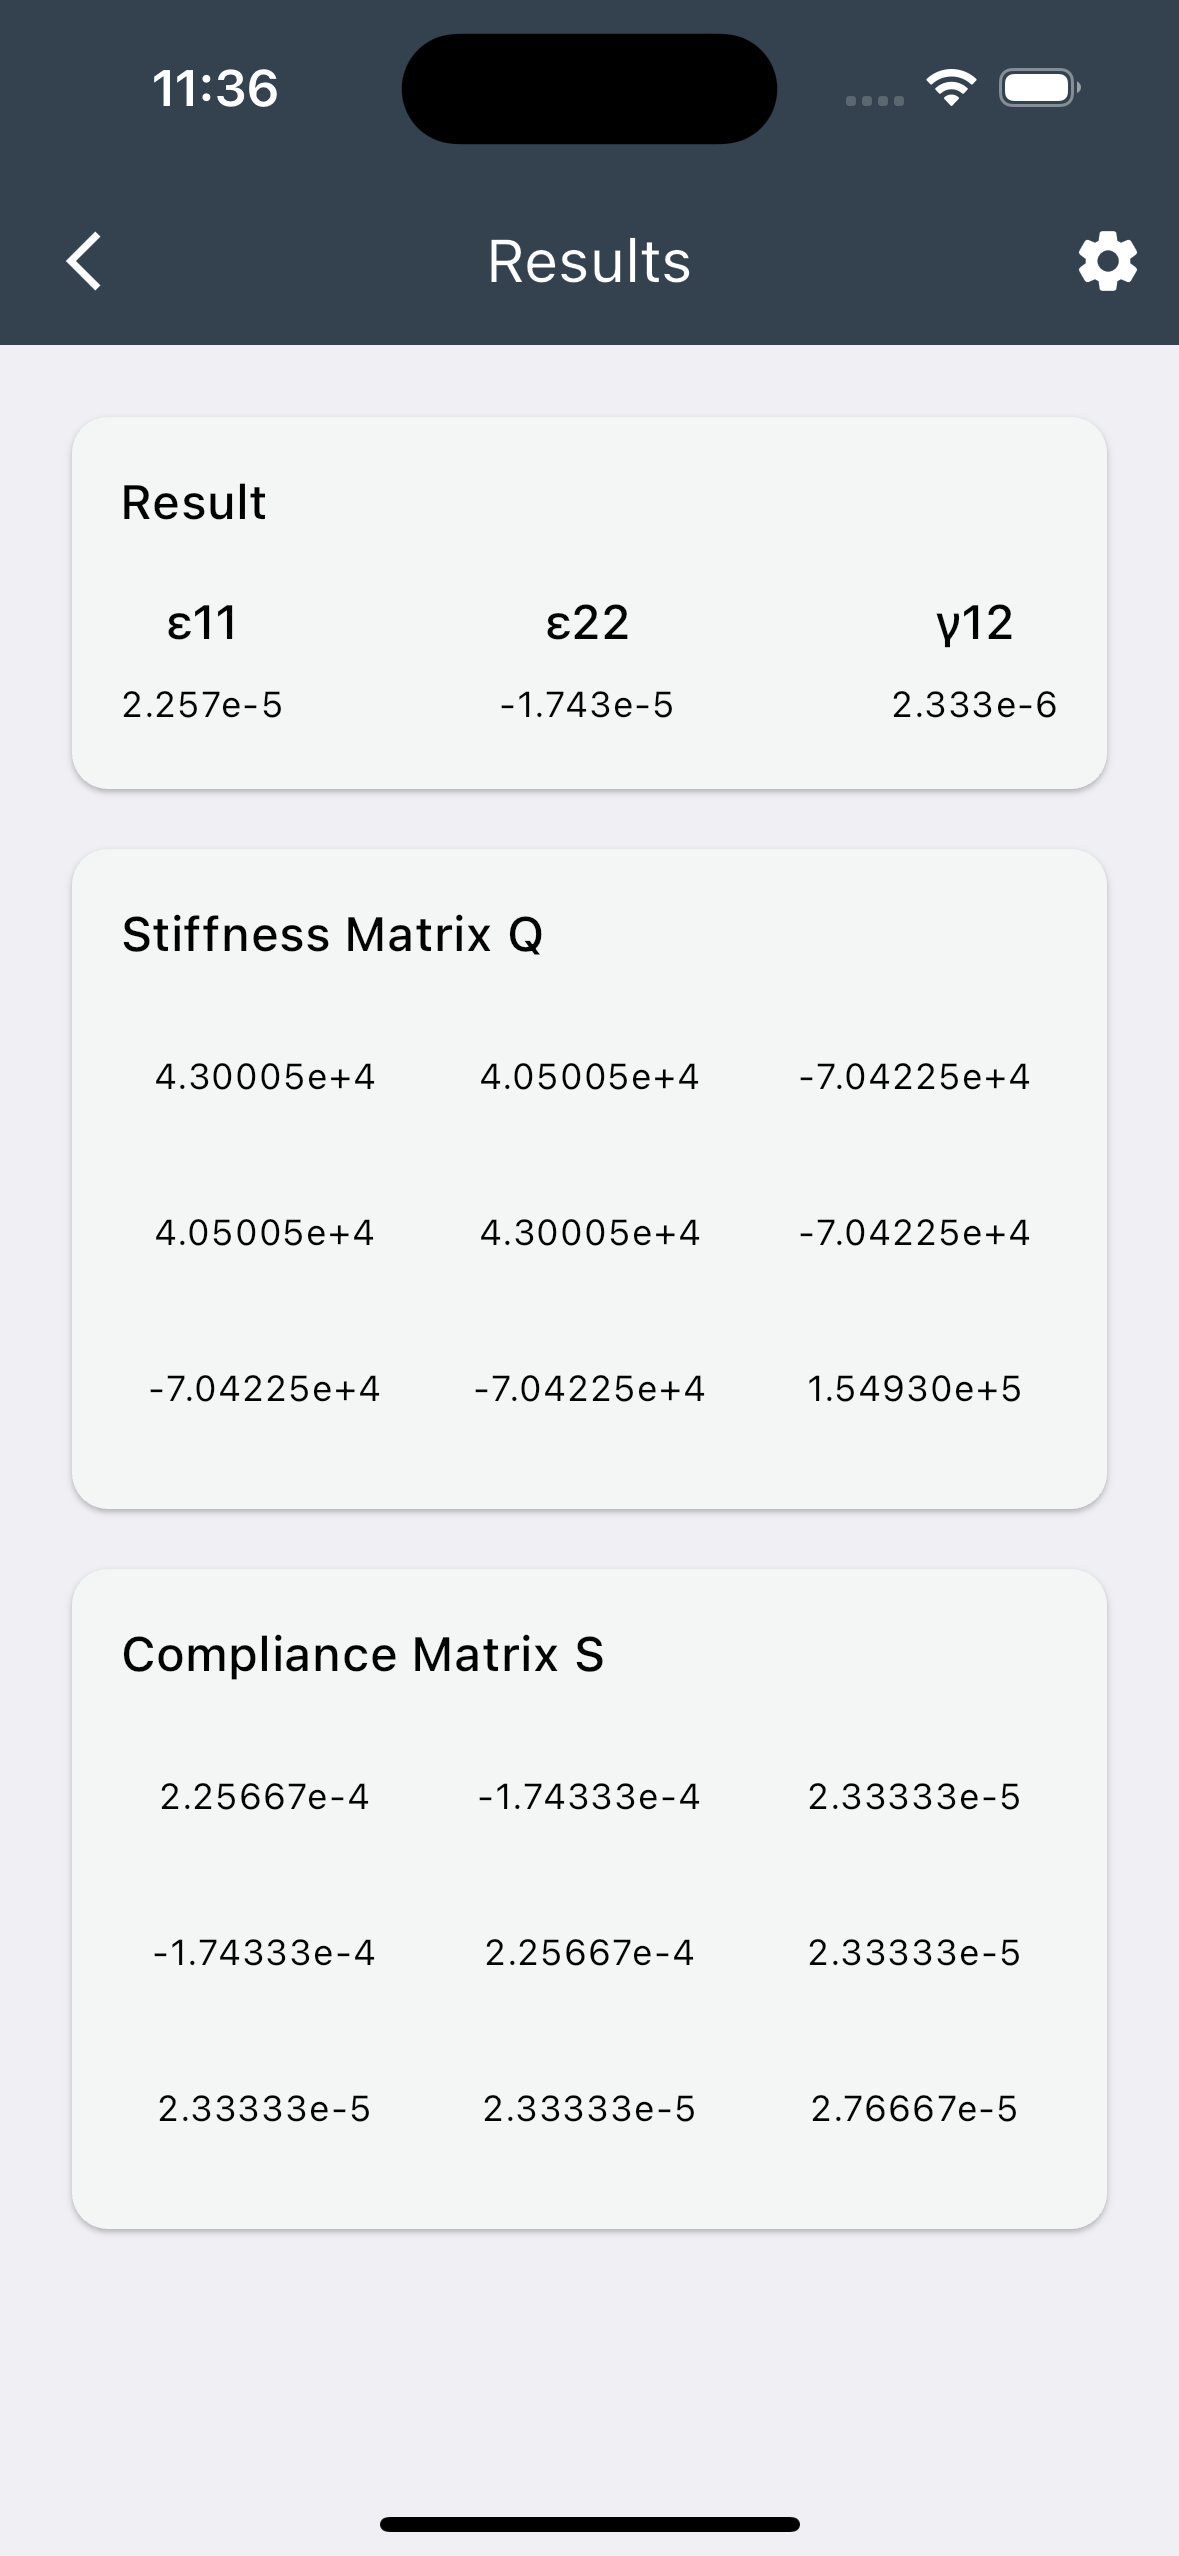
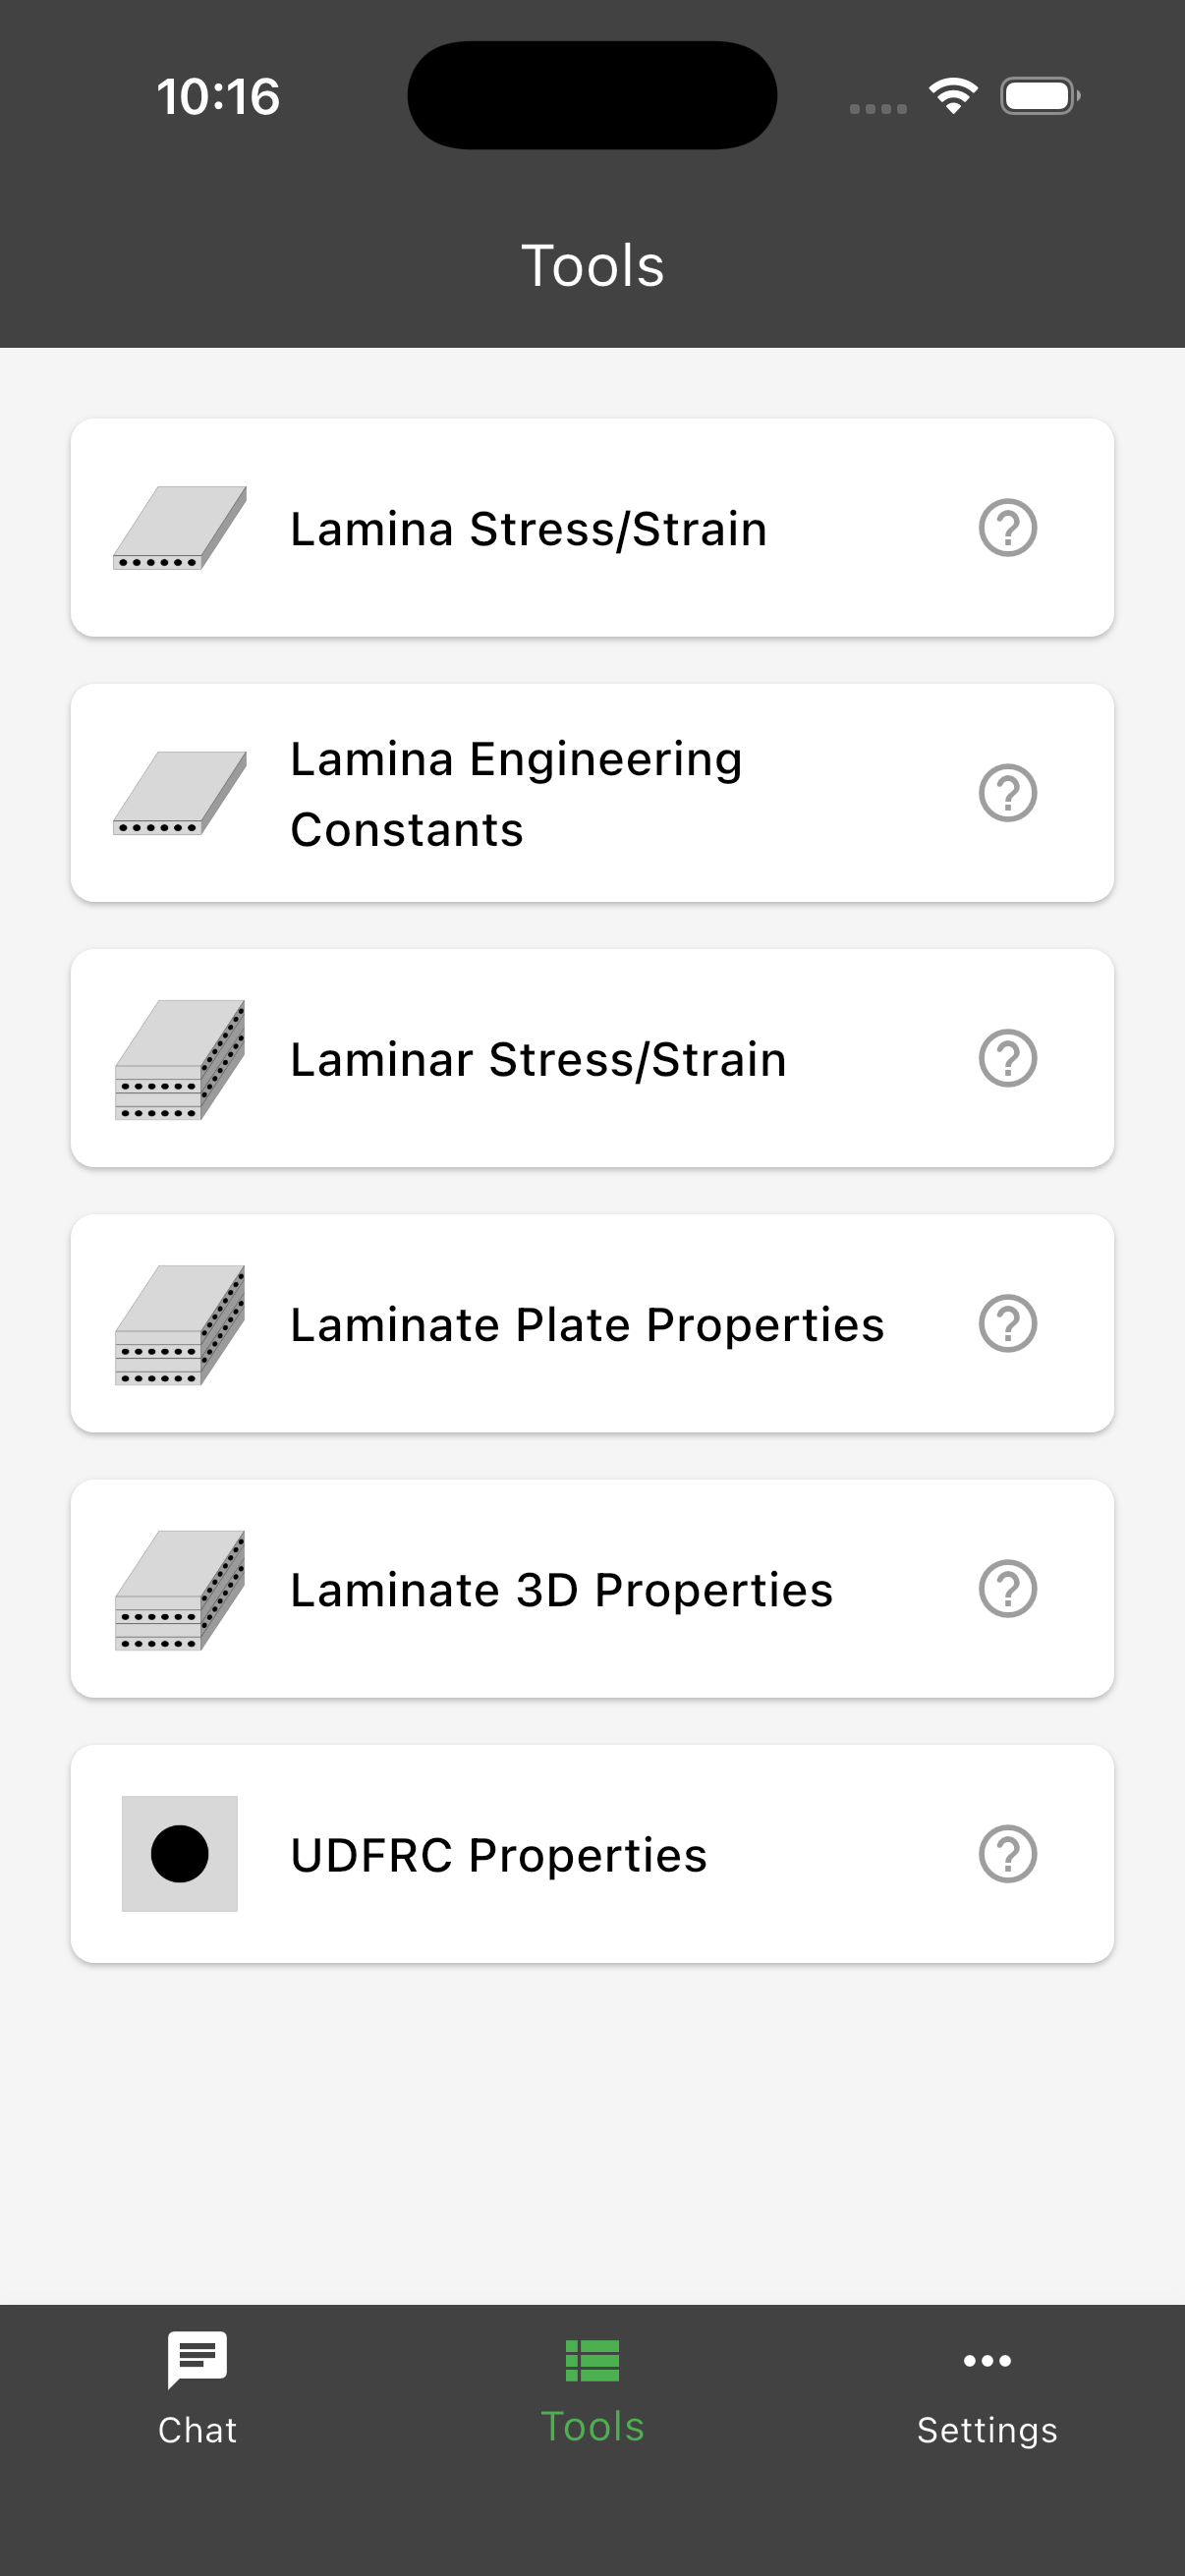
Update readme

diff --git a/README.md b/README.md
@@ -1,85 +1,128 @@
-# SwiftComp-flutter
+# CompositesAI (Former SwiftComp)
+
 [![Version](https://img.shields.io/github/v/release/banghuazhao/swiftcomp-flutter)](https://github.com/banghuazhao/swiftcomp-flutter/releases)
-[![License](https://img.shields.io/github/license/banghuazhao/EasyToast)](LICENSE)
-[![Platform](https://img.shields.io/badge/platform-iOS%20|%20android-blue)](#)
+[![License](https://img.shields.io/github/license/banghuazhao/swiftcomp-flutter)](LICENSE)
+[![Platform](https://img.shields.io/badge/platform-iOS%20%7C%20Android%20%7C%20Web-blue)](#)
 [![App Store](https://img.shields.io/badge/App%20Store-Download-blue.svg)](https://apps.apple.com/us/app/swiftcomp-composite-calculator/id1297825946)
 [![Google Play](https://img.shields.io/badge/Google%20Play-Download-green.svg)](https://play.google.com/store/apps/details?id=com.banghuazhao.swiftcomp&hl=en_US)
 
+CompositesAI is a cross-platform Flutter app for composite materials engineering. It combines SwiftComp-based composite calculators with an AI chat assistant for questions, calculations, and simulation-oriented workflows.
 
-SwiftComp-flutter is a mobile app designed to provide a comprehensive composite calculator based on the SwiftComp software, a general-purpose multiscale constitutive modeling code for composites. The app is available on both the App Store, Google Play Store, and [web](https://compositesai.com/), making it accessible to a wide range of users.
+The app is available for iOS, Android, and the web at [compositesai.com](https://compositesai.com/).
 
+## Features
 
-## ✨ Features
+- AI chat assistant for composites questions, calculations, and guided workflows.
+- Lamina stress/strain calculator for a single layer with arbitrary fiber orientation.
+- Lamina engineering constants calculator.
+- Laminate stress/strain calculator.
+- Laminate plate properties calculator, including ABD matrices.
+- Laminate 3D properties calculator.
+- UDFRC rules-of-mixtures calculator for unidirectional fiber-reinforced composites.
+- Account flows for sign in, sign up, password reset, profile settings, and provider sign-in.
+- Localized UI for English, Simplified Chinese, and Traditional Chinese.
 
-- **Lamina Stress/Strain:** Compute stress and strain for a single layer with arbitrary fiber orientation.
-- **Lamina Engineering Constants:** Compute engineering constants for a lamina with arbitrary fiber orientation.
-- **Laminar Stress/Strain:** Compute stress and strain distribution within a lamiante.
-- **Laminate Plate Properties:** Compute the ABD matrices for a laminate.
-- **Laminate 3D Properties:** Compute 3D properties for a laminate.
-- **UDFRC Properties:** Compute 3D properties for unidirectional fiber-reinforced composites (UDFRC).
-- **Chat:** A built-in AI Campanion for asking questions and performing calculations.
-
-
-## 🖼️ Screenshots
+## Screenshots
 
 <p align="center">
-<img src="./sreenshots/1.png" alt="iOS Screenshot" width="200">
-<img src="./sreenshots/2.png" alt="iOS Screenshot" width="200">
-<img src="./sreenshots/3.png" alt="iOS Screenshot" width="200">
+  <img src="./sreenshots/1.png" alt="SwiftComp screenshot 1" width="200">
+  <img src="./sreenshots/2.png" alt="SwiftComp screenshot 2" width="200">
+  <img src="./sreenshots/3.png" alt="SwiftComp screenshot 3" width="200">
 </p>
 
-## 📋 Requirements
+## Tech Stack
 
-- Dart: >=3.3.0 <4.0.0
-- Flutter: >=3.19.0
+- Flutter and Dart
+- Provider for app state
+- GetIt for dependency injection
+- Local packages for domain, data, infrastructure, and shared UI components
+- `composite_calculator` for composite mechanics calculations
+- Fastlane metadata and lanes for mobile release workflows
 
-## 📲 Installation Guide
+## Requirements
 
-### Prerequisites
-Make sure you have Flutter installed on your system. You can follow the official Flutter [installation guide](https://flutter.dev/docs/get-started/install) if you haven’t done so already.
-Please install Flutter `3.19.0`
+- Flutter stable. CI currently uses Flutter `3.41.7`.
+- Dart `>=3.3.0 <4.0.0`.
+- Xcode and CocoaPods for iOS builds.
+- Android Studio or Android SDK tooling for Android builds.
 
-1. **Clone the Repository**
+The repository includes an `.fvmrc` that tracks the Flutter stable channel. If you use FVM:
+
 ```bash
-git clone https://github.com/banghuazhaoswiftcomp-flutter.git
+fvm install
+fvm flutter pub get
+```
+
+## Project Structure
+
+```text
+lib/
+  app/                  App shell and dependency injection
+  generated/            Generated localization files
+  l10n/                 ARB localization sources
+  presentation/         Chat, tools, auth, and settings UI
+  util/                 Shared app utilities
+packages/
+  domain/               Use cases, entities, and repository contracts
+  data/                 Repository implementations and API-facing data logic
+  infrastructure/       Auth, HTTP, token, feature flag, and platform services
+  ui_components/        Shared reusable UI widgets
+test/                   App-level widget and view model tests
+integration_test/       Integration test entry point
+android/                Android app and Fastlane config
+ios/                    iOS app and Fastlane config
+```
+
+## Getting Started
+
+1. Clone the repository:
+
+```bash
+git clone https://github.com/banghuazhao/swiftcomp-flutter.git
 cd swiftcomp-flutter
 ```
 
-2. **Install Dependencies** Install the necessary Flutter dependencies by running:
+2. Create local configuration files as needed. At minimum, local development and CI expect a `.env` file to exist:
+
+```bash
+touch .env
+```
+
+The app also declares `msal_config.json` as an asset for Microsoft authentication. Keep environment-specific credentials out of commits.
+
+3. Install dependencies:
+
 ```bash
 flutter pub get
 ```
 
-3**Run the Application** 
+4. Run the app:
+
 ```bash
 flutter run
 ```
-Then choose your device, it could be iOS, Android, or web.
 
+Select an iOS simulator, Android emulator/device, or supported web target when prompted.
 
-## ⬇️ Download to Mobile
+## Quality Checks
 
-### iOS
-[Download SwiftComp from the App Store](https://apps.apple.com/us/app/swiftcomp-composite-calculator/id1297825946).
+Run the same checks used by CI:
 
-### Android
-[Download SwiftComp from the Google Play Store](https://play.google.com/store/apps/details?id=com.banghuazhao.swiftcomp&hl=en_US).
+```bash
+flutter analyze --no-fatal-infos --no-fatal-warnings
+flutter test
+```
 
-## 🌐 Web Access
-[Use SwiftComp online](https://compositesai.com/)
+## Downloads
 
+- [Download SwiftComp from the App Store](https://apps.apple.com/us/app/swiftcomp-composite-calculator/id1297825946)
+- [Download SwiftComp from Google Play](https://play.google.com/store/apps/details?id=com.banghuazhao.swiftcomp&hl=en_US)
+- [Use SwiftComp online](https://compositesai.com/)
 
-## 🚀 Usage
+## Contributing
 
-1. **Select a Tool:** From the Tools tab, choose the desired composite calculator.
-2. **Input Parameters:** Enter the required parameters for your composite material. Note that inputs vary by tool.
-3. **Calculate:** Press the calculate button to obtain results.
-4. **View Results:** Once calculation is complete, the results page will be displayed.
-5. **Chat:** Ask any questions related to composites, composites simulation, invoke simulations using natural language.
+Contributions are welcome. Please read [CONTRIBUTING.md](CONTRIBUTING.md) before submitting a pull request.
 
+## License
 
-## 🤝 Contributing
-Contributions are welcome! Please read our [Contributing Guidelines](CONTRIBUTING.md) before submitting a pull request.
-
-## 📄 License
-SwiftComp-flutter is released under the MIT License. See [LICENSE](LICENSE) for details.
+SwiftComp / CompositesAI is released under the MIT License. See [LICENSE](LICENSE) for details.